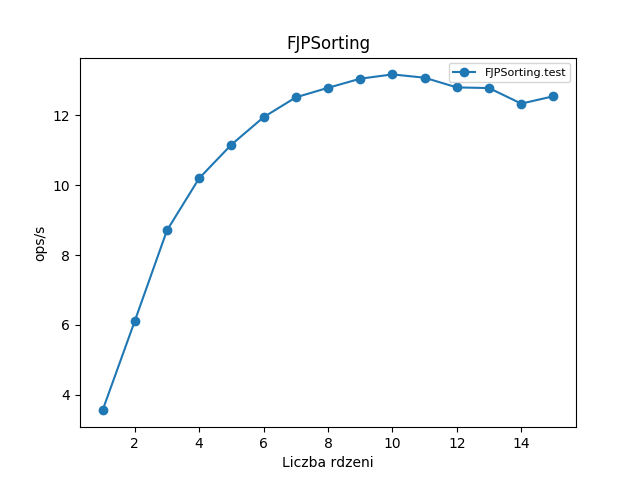
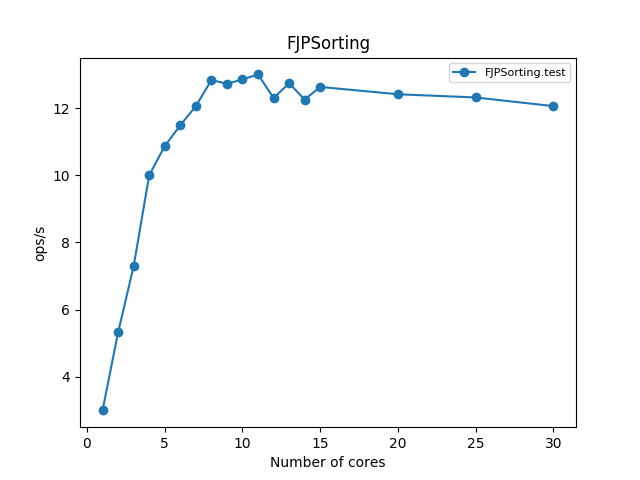
[T], FJP more thread counts

diff --git a/text/src/content.tex b/text/src/content.tex
@@ -102,6 +102,8 @@
     
     Zdecydowano się na wybór bazy H2 jako obiektu badań wydajnościowych. Jest ona wykorzystywana jako domyślne źródło danych w sprawdzonych, powszechnie wykorzystywanych szkieletach aplikacji, takich jak Spring Boot czy Grails. Autorzy H2 na bieżąco poprawiają błędy i tworzą nowe wersje, z których ostatnia została wydana w kwietniu 2017 \cite{h2maven}. Rozwiązanie to implementuje w zdecydowanej większości standard ANSI-SQL wraz z dodatkowymi rozszerzeniami, jednakże pewne niewielkie braki nie powodują problemów w przypadku niniejszej pracy, ze względu na zastosowanie najbardziej podstawowych elementów języka SQL przy badaniu wydajności.
 
+    W ramach testów wydajnościowych zbadano także bazę dyskową MySQL, wykonując na niej te same badania, co na bazie H2. Uczyniono to między innymi, aby móc sprawdzić poprawność wyników zapytań pomiędzy bazami - błędnie skonstruowane zapytanie mogłoby niezauważalnie wykazywać niepoprawne szybkości wykonania. Drugim powodem wykonania dodatkowych testów jest chęć sprawdzenia, czy rozwiązania SQL działające w pamięci może stanowić konkurencję dla sprawdzonych, dyskowych rozwiąząń SQL.
+
 \section{Strumienie w Java 8}
 
 \subsection{Wstęp}
@@ -244,6 +246,9 @@ IntStream.range(1, 100).parallel()
     Thread.currentThread().getName()
   )
 );
+
+\end{lstlisting}
+
 \begin{verbatim}
 ...
 ForkJoinPool.commonPool-worker-1
@@ -267,7 +272,6 @@ main
 
     Warto zwrócić uwagę, że wśród wątków wykonawczych znajduje się też wątek \texttt{main}, czyli wątek inicjujący operację strumieniową. Jako iż wykonywanie się ciągu operacji strumieniowych jest blokujące (nie jest asynchroniczne), dobrym rozwiązaniem jest wykorzystanie do obliczeń także wątku inicjującego. Jeśli nie jest to oczekiwane zachowanie, istnieje możliwość ręcznego utworzenia instancji puli wątków \texttt{ForkJoinPool} i przekazanie zadania w postaci funkcji lambda \texttt{Callable<T>}. W takim podejściu możliwe jest też zdefiniowanie liczby dostępnych wątków.
 
-\end{lstlisting}
 
 \subsection{Interfejs \texttt{Collector}}
 
@@ -404,7 +408,9 @@ Combining #42c with #46f
 
 \subsection{Język domenowy (DSL) a język ogólnego przeznaczenia}
 
-    Język SQL, poza metodami dostępu do danych umożliwia także ich wstępne przetwarzanie. Dostępne są proste funkcje matematyczne, funkcje operujące na ciągach znaków czy datach. Problemem jest jednak często brak standaryzacji - różni dostawcy baz danych rozszerzają możliwości języka o różne funkcje, przez co migracja pomiędzy bazami danych może być problematyczna, zwłaszcza, jeśli w użyciu są własne procedury składowane (\textit{stored procedures}). Przy użyciu Stream możliwe jest wykorzystanie praktycznie dowolnego kodu Javy, przez co aplikacja je wykorzystująca jest znacznie bardziej przenośna i łatwiej testowalna. Przykładem jest obsługa dat - język Java wyposażony został w wersji 8 w klasy pakietu \texttt{java.time.*}, umożliwiające wygodne i poprawne operacje na datach, interwałach czasowych i strefach czasowych. Funkcje SQL są ograniczone w tym zakresie i ich rozszerzanie nie jest zbyt wygodne.
+    Język SQL, poza metodami dostępu do danych umożliwia także ich wstępne przetwarzanie. Dostępne są proste funkcje matematyczne, funkcje operujące na ciągach znaków czy datach. Problemem jest jednak często brak standaryzacji - różni dostawcy baz danych rozszerzają możliwości języka o różne funkcje, przez co migracja pomiędzy bazami danych może być problematyczna, zwłaszcza, jeśli w użyciu są własne procedury składowane (\textit{stored procedures}). 
+    
+    Przy użyciu Stream możliwe jest wykorzystanie praktycznie dowolnego kodu Javy, przez co aplikacja je wykorzystująca jest znacznie bardziej przenośna i łatwiej testowalna. Przykładem jest obsługa dat - język Java wyposażony został w wersji 8 w klasy pakietu \texttt{java.time.*}, umożliwiające wygodne i poprawne operacje na datach, interwałach czasowych i strefach czasowych. Funkcje SQL są ograniczone w tym zakresie i ich rozszerzanie nie jest zbyt wygodne.
     
 
 \section{Środowisko badawcze}
@@ -529,7 +535,7 @@ public class SummingIntegersH2 {
 
 \subsection{Wnioski}
 
-    Już po pobieżnym spojrzeniu na wyniki testów rzuca się w oczy kilka wniosków. Najszybszą i zarazem najprostszą ciągła strukturą danych jest zwykła tablica typu prymitywnego. Ze względu na zachowanie ciągłości w pamięci (w typowych implementacjach) i najszybszym możliwym czasie dostępu do elementów z bardzo niskim poziomem abstrakcji, proste operacje wymagające sekwencyjnego odczytu są najszybsze spośród porównanych. Czasy sumowania liczb w tablicy, w porównaniu do czasów sumowania liczb w liście są średnio 3 razy mniejsze. Należy jednak zaznaczyć, że optymalizacje tego typu znacząco utrudniają pisanie kodu, ze względu na rezygnację z wygodnych metod interfejsu \texttt{List<T>}. W większości typowych, biznesowych zastosowań mikrooptymalizacje tego typu nie będą istotne z punku widzenia wydajności całych aplikacji, aczkolwiek w pewnych szczególnych zastosowaniach (np. dziedzina High Frequency Trading) mogą mieć pewne znaczenie.
+    Już po pobieżnym spojrzeniu na wyniki testów rzuca się w oczy kilka wniosków. Najszybszą i zarazem najprostszą ciągła strukturą danych jest zwykła tablica typu prostego. Ze względu na zachowanie ciągłości w pamięci (w typowych implementacjach) i najszybszym możliwym czasie dostępu do elementów z bardzo niskim poziomem abstrakcji, proste operacje wymagające sekwencyjnego odczytu są najszybsze spośród porównanych. Czasy sumowania liczb w tablicy, w porównaniu do czasów sumowania liczb w liście są średnio 3 razy mniejsze. Należy jednak zaznaczyć, że optymalizacje tego typu znacząco utrudniają pisanie kodu, ze względu na rezygnację z wygodnych metod interfejsu \texttt{List<T>}. W większości typowych, biznesowych zastosowań mikrooptymalizacje tego typu nie będą istotne z punku widzenia wydajności całych aplikacji, aczkolwiek w pewnych szczególnych zastosowaniach (np. dziedzina High Frequency Trading) mogą mieć pewne znaczenie.
 
     W zbadanych przypadkach strumienie równoległe wykazują większą wydajność niż strumienie sekwencyjne od pewnego rozmiaru danych wejściowych. Utworzenie strumienia równoległego i jego skonsumowanie wymaga uruchomienie całego procesu podziału danych na wątki, wykonywania operacji i łączenia wyników z poszczególnych wątków. Daje to pewien narzut, który jest szczególnie widoczny przy małych listach, dla których operacje sekwencyjne wykonują się szybciej. Niestety, nie istnieje sposób pozwalający przewidzieć, który rodzaj strumienia (sekwencyjny czy równoległy) byłby lepszym wyborem dla danej sytuacji. Możliwe byłoby zaproponowanie heurystycznej metody, określającej rodzaj na podstawie wielkości danych wejściowych, ale nie byłby on niezawodny, więc dobór metody pozostawiony jest programiście.
 
@@ -647,22 +653,22 @@ having sum(order.totalprice) > 10000
 order by customers.name;
 \end{lstlisting}
 
-Pomijając bardzo prawdopodobne optymalizacje, powyższe zapytanie interpretowane jest w następujący sposób, w następującej kolejności:
+    Bazy SQL posiadają zwykle optymalizatory zapytań o różnym stopniu złożoności. Możliwe jest sprawdzenie dokładnego planu zapytania (\textit{query execution plan}) za pomocą składni odpowiedniej dla danego systemu, przykładowo, w MySQL istnieje specjalna klauzula \texttt{EXPLAIN}. Optymalizacje i zmiany kolejności nie wpływają jednak na wynik, który jest zawsze taki sam, jak przy wykonywaniu zapytania zgodnie z logiczną kolejnością SQL. Zapytanie zamieszczone we fragmencie \ref{sqlexample} posiada następującą kolejność wykonywania:
 
 \begin{itemize}
-    \item \textbf{from orders join customer} - pierwszym krokiem jest wybranie tabeli (tabel), z których pobrane zostaną dane. Należy zauważyć, że klauzula \textbf{join} jest logicznie częścią klauzuli \textbf{where}, jedynie skrótowo zapisaną.
-    \item \textbf{where customer.acctbal > 1000} - następnie wiersze są filtrowane. W tym momencie następuje odrzucenie niechcianych danych. 
-    \item \textbf{group by customers.custkey, customers.name} - następuje tworzenie grup na podstawie podanej krotki. Podczas grupowania obliczane są wszystkie funkcje agregujące występujące w zapytaniu.
-    \item \textbf{having sum(order.totalprice) > 10000} - na grupach wykonywane jest dalsze filtrowanie, na podstawie wyliczonych w poprzednim kroku funkcji, tutaj sprawdzana jest wartość sumy.
-    \item \textbf{select customers.name, sum(order.totalprice)} - z pośredniej tabeli, zawierającej jak dotąd wszystkie kolumny z obu tabel po połączeniu, wybierane są jedynie wymagane kolumny.
-    \item \textbf{order by customers.name} - na samym końcu wykonywane jest sortowanie.
+    \item \textbf{from orders join customer} - wybranie tabeli (tabel), z których pobrane zostaną dane (należy zauważyć, że klauzula \textbf{join} jest logicznie częścią klauzuli \textbf{where}, jedynie skrótowo zapisaną),
+    \item \textbf{where customer.acctbal > 1000} - filtrowanie wierszy, odrzucenie niechcianych danych,
+    \item \textbf{group by customers.custkey, customers.name} - tworzenie grup na podstawie podanej krotki, podczas grupowania obliczane są wszystkie funkcje agregujące występujące w zapytaniu.
+    \item \textbf{having sum(order.totalprice) > 10000} - filtrowanie całych grup, na podstawie wyliczonych w poprzednim kroku funkcji (tutaj sprawdzana jest wartość sumy),
+    \item \textbf{select customers.name, sum(order.totalprice)} - wybranie, na podstawie pośredniej tabeli zawierającej jak dotąd wszystkie kolumny z obu tabel (po połączeniu), jedynie wymaganych kolumn,
+    \item \textbf{order by customers.name} - sortowanie według jednej lub kilku wybranych kolumn.
 \end{itemize}
 
-Jak można zauważyć, logiczna kolejność wykonywania zapytania jest znacząco odmienna od faktycznej kolejności.
+    Jak można zauważyć, logiczna kolejność wykonywania zapytania jest znacząco odmienna od faktycznej kolejności. Wynikiem zapytania jest zbiór wierszy (krotek) z dwoma kolumnami, odpowiednio typu znakowego oraz liczbowego.
 
 \subsection{Proces wykonywania zapytania strumieniowego}
 
-    Podobnie jak w przypadku języka SQL, zapytanie strumieniowe wykonuje się w kilku etapach. Ważną różnicą jest to, że nie występuje tutaj żaden mechanizm parsowania i tłumaczenia kodu, ponieważ zwykły kod języka Java jest już skompilowany do kodu bajtowego i wykonywany na maszynie wirtualnej Java. Maszyna wirtualna Javy po uruchomieniu programu realizuje dużą liczbę optymalizacji kodu, więc możliwe jest uzyskanie wzrostu wydajności jedynie dzięki tym optymalizacjom. Fragment kodu \ref{streamsexample} przezentuje zapytanie strumieniowe odpowiadające zapytaniu z listingu \ref{sqlexample}
+    Podobnie jak w przypadku języka SQL, zapytanie strumieniowe wykonuje się w kilku etapach. Ważną różnicą jest to, że nie występuje tutaj żaden mechanizm parsowania i tłumaczenia kodu, ponieważ zwykły kod języka Java jest już skompilowany do kodu bajtowego i wykonywany na maszynie wirtualnej Java. Maszyna wirtualna Javy po uruchomieniu programu realizuje dużą liczbę optymalizacji kodu, więc możliwe jest uzyskanie wzrostu wydajności jedynie dzięki tym optymalizacjom. Fragment kodu \ref{streamsexample} przezentuje zapytanie strumieniowe odpowiadające zapytaniu z listingu \ref{sqlexample} :
 
 \begin{lstlisting}[label=streamsexample, caption=Analogiczne rozwiązanie wykorzystujące Stream API]
 List<Pair<String, Double>> result = StreamUtils.innerJoin(
@@ -693,8 +699,15 @@ List<Pair<String, Double>> result = StreamUtils.innerJoin(
 
     Pod względem liczby linii kodu oraz czytelności przykład ten prezentuje się mniej korzystnie. W celu wyrażenia tego samego zapytania w Stream API konieczne jest wykorzystanie kilku ręcznych mechanizmów. Strumienie nie wspierają złączeń kolekcji, tak więc konieczne jest ręczne jego wykonanie (propozycja implementacji znajduje się w rozdziale \ref{proposal}). Wynikiem złączenia jest lista par, na której odbywa się filtrowanie, a następnie grupowanie. Aby pogrupować elementy strumienia na podstawie kilku właściwości, konieczne jest ponowne użycie klasy \texttt{ImmutablePair<T1, T2>}, której obiekty reprezentują klucz mapy, na podstawie którego odbywa się grupowanie. Jako iż klasa \texttt{Map} nie udostępnia bezpośrednio możliwości tworzenia strumieni, konieczne jest wykorzystanie metody \texttt{Map.entrySet} w celu uzyskania zbioru par klucz-wartość, na którym ponownie wywoływana jest metoda tworząca strumień. Na koniec z utworzonych grup wyłuskiwane są wymagane pola (imię klienta oraz suma cen zamówień) i zbierane do listy.
 
+    Strumień, będąc abstrakcyjną formą reprezentacji źródła danych, tworzony może być na kilka różnych sposobów, ale sposoby te nie wpływają semantycznie na proces przetwarzania danych. Zwykle strumień tworzony jest na podstawie kolekcji - przy konsumowaniu elementów, kolekcja dostarcza elementy wykonując wewnętrzną iterację (\textit{internal iteration}), która jest procesem ukrytym przed programistą. Inne sposoby tworzenia strumieni, takie jak generowanie ich w locie, wczytywanie z dysku bądź z sieci, nie są zbyt praktyczne. Związane jest to z konstrukcją wewnętrzną strumieni, które działają na zasadzie "pytania o kolejny element" (\textit{pull-based}). Decyzją implementacyjną projektantów Stream API było wykorzystanie modelu przetwarzania ciągłego, w którym to strumień wykonuje akcję pobrania następnego elementu. W związku z tym, nie jest możliwe (przynajmniej w domyślnej formie) efektywne asynchroniczne dostarczanie nowych elementów, ponieważ każda operacja pobrania elementu jest operacją blokującą, wywoływaną po zakończeniu przetwarzania poprzedniego elementu. Model odwrotny do powyższego, tzw. model \textit{push-based}, wykorzystywany np. w bibliotekach RxJava bazujących na wzorcu Observable, ma lepsze zastosowanie w takich przypadkach. Brian Goetz, zapytany o możliwości przetwarzania asynchronicznego w domyślnych strumieniach Java 8 stwierdził \cite{goetz}:
 
-    Strumień, będąc abstrakcyjną formą reprezentacji źródła danych, tworzony może być na kilka różnych sposobów, ale sposoby te nie wpływają semantycznie na proces przetwarzania danych. Zwykle strumień tworzony jest na podstawie kolekcji - przy konsumowaniu elementów, kolekcja dostarcza elementy wykonując wewnętrzną iterację (\textit{internal iteration}), która jest procesem ukrytym przed programistą. Inne sposoby tworzenia strumieni, takie jak generowanie ich w locie, wczytywanie z dysku bądź z sieci nie są zbyt przydatne z powodu ich konstrukcji pull-based. Decyzją implementacyjną projektantów Stream API było wykorzystanie modelu przetwarzania ciągłego, w którym to strumień wykonuje akcję pobrania następnego elementu. W związku z tym, nie jest możliwe (przynajmniej w domyślnej formie) efektywne asynchroniczne dostarczanie nowych elementów, ponieważ każda operacja pobrania elementu jest operacją blokującą, wywoływaną po zakończeniu przetwarzania poprzedniego elementu. Model odwrotny (push-based), wykorzystywany np. w bibliotekach RxJava bazujących na wzorcu Observable, ma lepsze zastosowanie w takich przypadkach.
+\begin{quote}
+The design center for Streams is mostly about data that can be accessed with no latency (either from data structures or generating functions); the design center for Rx is about infinite streams of events which may arrive asynchronously.
+
+    Zamiarem architektonicznym Stream API było przetwarzanie danych, które są dostępne bez żadnych opóźnień (pochodzących ze struktur danych bądź funkcji generujących), celem Rx jest obsługa nieskończonych strumieni zdarzeń, które mogą pojawiać się asynchronicznie (\textit{tłum. aut.}).
+
+\end{quote}
+
 
     Po utworzeniu strumienia możliwe jest wykonanie dostępnych na nim operacji pośrednich, udostępnionych przez metody instancyjne klasy \texttt{Stream<T>}. Każda taka operacja zwraca zawsze strumień, ewentualnie innego typu (\texttt{Stream<...>}, \texttt{IntStream}). Należy zwrócić szczególną uwagę na różnice pomiędzy dwoma typami operacji pośrednich, ponieważ owe typy determinują faktyczną, wewnętrzną kolejność operacji, która mimo iż ukryta przed programistą, może mieć wpływ na złożoność czasową jak i pamięciową. Operacje pośrednie bezstanowe (takie jak \texttt{filter} i \texttt{map}) zapisane tuż obok siebie, łączone są w jedną, większą operację, wykorzystując właściwości kompozycji funkcji bezstanowych. Drugi typ operacji pośrednich, operacje pośrednie stanowe, nie gwarantują fuzji i mogą wprowadzać ukryty stan. Najlepszym przykładem operacji pośredniej stanowej jest sortowanie, które wymaga, aby dokładnie wszystkie elementy strumienia zbuforowane zostały przed sortowaniem. Jest to logiczne, ponieważ nie jest możliwe ustalenie posortowanej kolejności zbioru elementów o nieznanej wielkości. Przykład fuzji operacji zaprezentowany jest we fragmencie kodu \ref{streamstateful1}.
 
@@ -773,7 +786,7 @@ Filtering: 5
 
     Jednym z najczęściej występujących zarzutów odnośnie Stream API jest brak odpowiedzi na istniejące w języku C\# i platformie .NET narzędzie LINQ-to-SQL. Pozwala ono na dostęp do danych znajdujących się w bazie relacyjnej za pomocą specjalniej składni kodu C\#, z automatycznym odwzorowaniem typu ORM. Strumienie umożliwiają tworzenie dość złożonych kombinacji operacji, natomiast wszystkie te operacje zachodzą w pamięci maszyny wirtualnej. Nie jest możliwe tłumaczenie metod klasy \texttt{Stream} na słowa kluczowe zapytania SQL. Taką możliwość dają dodatkowe biblioteki, np. JOOQ bądź Hibernate Criteria API, ale dostępne one były jeszcze przed wydaniem Java 8. 
 
-    Kolejnym argumentem przemiawiającym na niekorzyść strumieni jest obiektywnie niewielka liczba operacji możliwych do wykonywania na strumieniach. Podstawowe operacje znane z języków funkcyjnych są oczywiście dostępne, natomiast postanowiono celowo nie rozszerzać zbytnio API klasy \texttt{Stream}, aby nie spowodować bałaganu. Znaczy to, iż popularne operatory funkcyjne, znane z innych języków programowania, takie jak \texttt{takeWhile}, \texttt{zip} czy \texttt{sliding} nie są dostępne i nie będą w natywnej formie, ponieważ nie jest możliwe modyfikowanie klas języka Java bez tworzenia własnych klas pośredniczących. Istnieją co prawda biblioteki takie jak jOO$\lambda$ \cite{joolambda} czy StreamEx \cite{streamex}, dostarczające dodatkowe funkcjonalności, ale nie są one oficjalne i nie posiadają wsparcia ze strony języka. W nowej wersji języka, Java 9, zapowiedziano wprowadzenie kilku dodatkowych operatorów, ale nie jest to nadal to samo.
+    Kolejnym argumentem przemiawiającym na niekorzyść strumieni jest obiektywnie niewielka liczba operacji możliwych do wykonywania na strumieniach. Podstawowe operacje znane z języków funkcyjnych są oczywiście dostępne, natomiast postanowiono celowo nie rozszerzać zbytnio API klasy \texttt{Stream}, aby nie spowodować bałaganu. Znaczy to, iż popularne operatory funkcyjne, znane z innych języków programowania, takie jak \texttt{takeWhile}, \texttt{zip} czy \texttt{sliding} nie są dostępne i nie będą w natywnej formie, ponieważ nie jest możliwe modyfikowanie klas języka Java bez tworzenia własnych klas pośredniczących. Istnieją co prawda biblioteki takie jak jOO$\lambda$ \cite{joolambda} czy StreamEx \cite{streamex}, dostarczające dodatkowe funkcjonalności, ale nie są one oficjalne i nie posiadają wsparcia ze strony języka. W nowej wersji języka, Java 9, zapowiedziano wprowadzenie kilku dodatkowych operatorów, ale nie jest to nadal funkcjonalność dorównująca zewnętrznym bibliotekom.
 
 
 \section{Propozycje rozwiązań}
@@ -921,6 +934,10 @@ Rozwiązanie to jest znacznie szybsze, wymaga jednak unikalności wartości kluc
 
     \bibitem{h2maven} 
         \textit{Informacje o pakietach bazy H2 na portalu Maven Central} https://mvnrepository.com/artifact/com.h2database/h2
+
+    \bibitem{goetz}
+        \textit{Wypowiedź architekta języka Java, Brian Goetz}
+        https://stackoverflow.com/questions/17960656/is-it-possible-to-use-java-8-streams-api-for-asynchronous-processing/18826615\#comment36545451\_18826615
 
 \end{thebibliography}
 

diff --git a/src/jmh/java/masterthesis/samples/FJPSorting.java b/src/jmh/java/masterthesis/samples/FJPSorting.java
@@ -14,7 +14,7 @@ import static java.util.stream.Collectors.toList;
 @State(Scope.Thread)
 public class FJPSorting {
     
-    @Param({"1", "2", "3", "4", "5", "6", "7", "8", "9", "10", "11", "12", "13", "14", "15"})
+    @Param({"1", "2", "3", "4", "5", "6", "7", "8", "9", "10", "11", "12", "13", "14", "15", "20","25", "30"})
     public int poolSize;
     
     List<Integer> numbers = new ArrayList<>();
